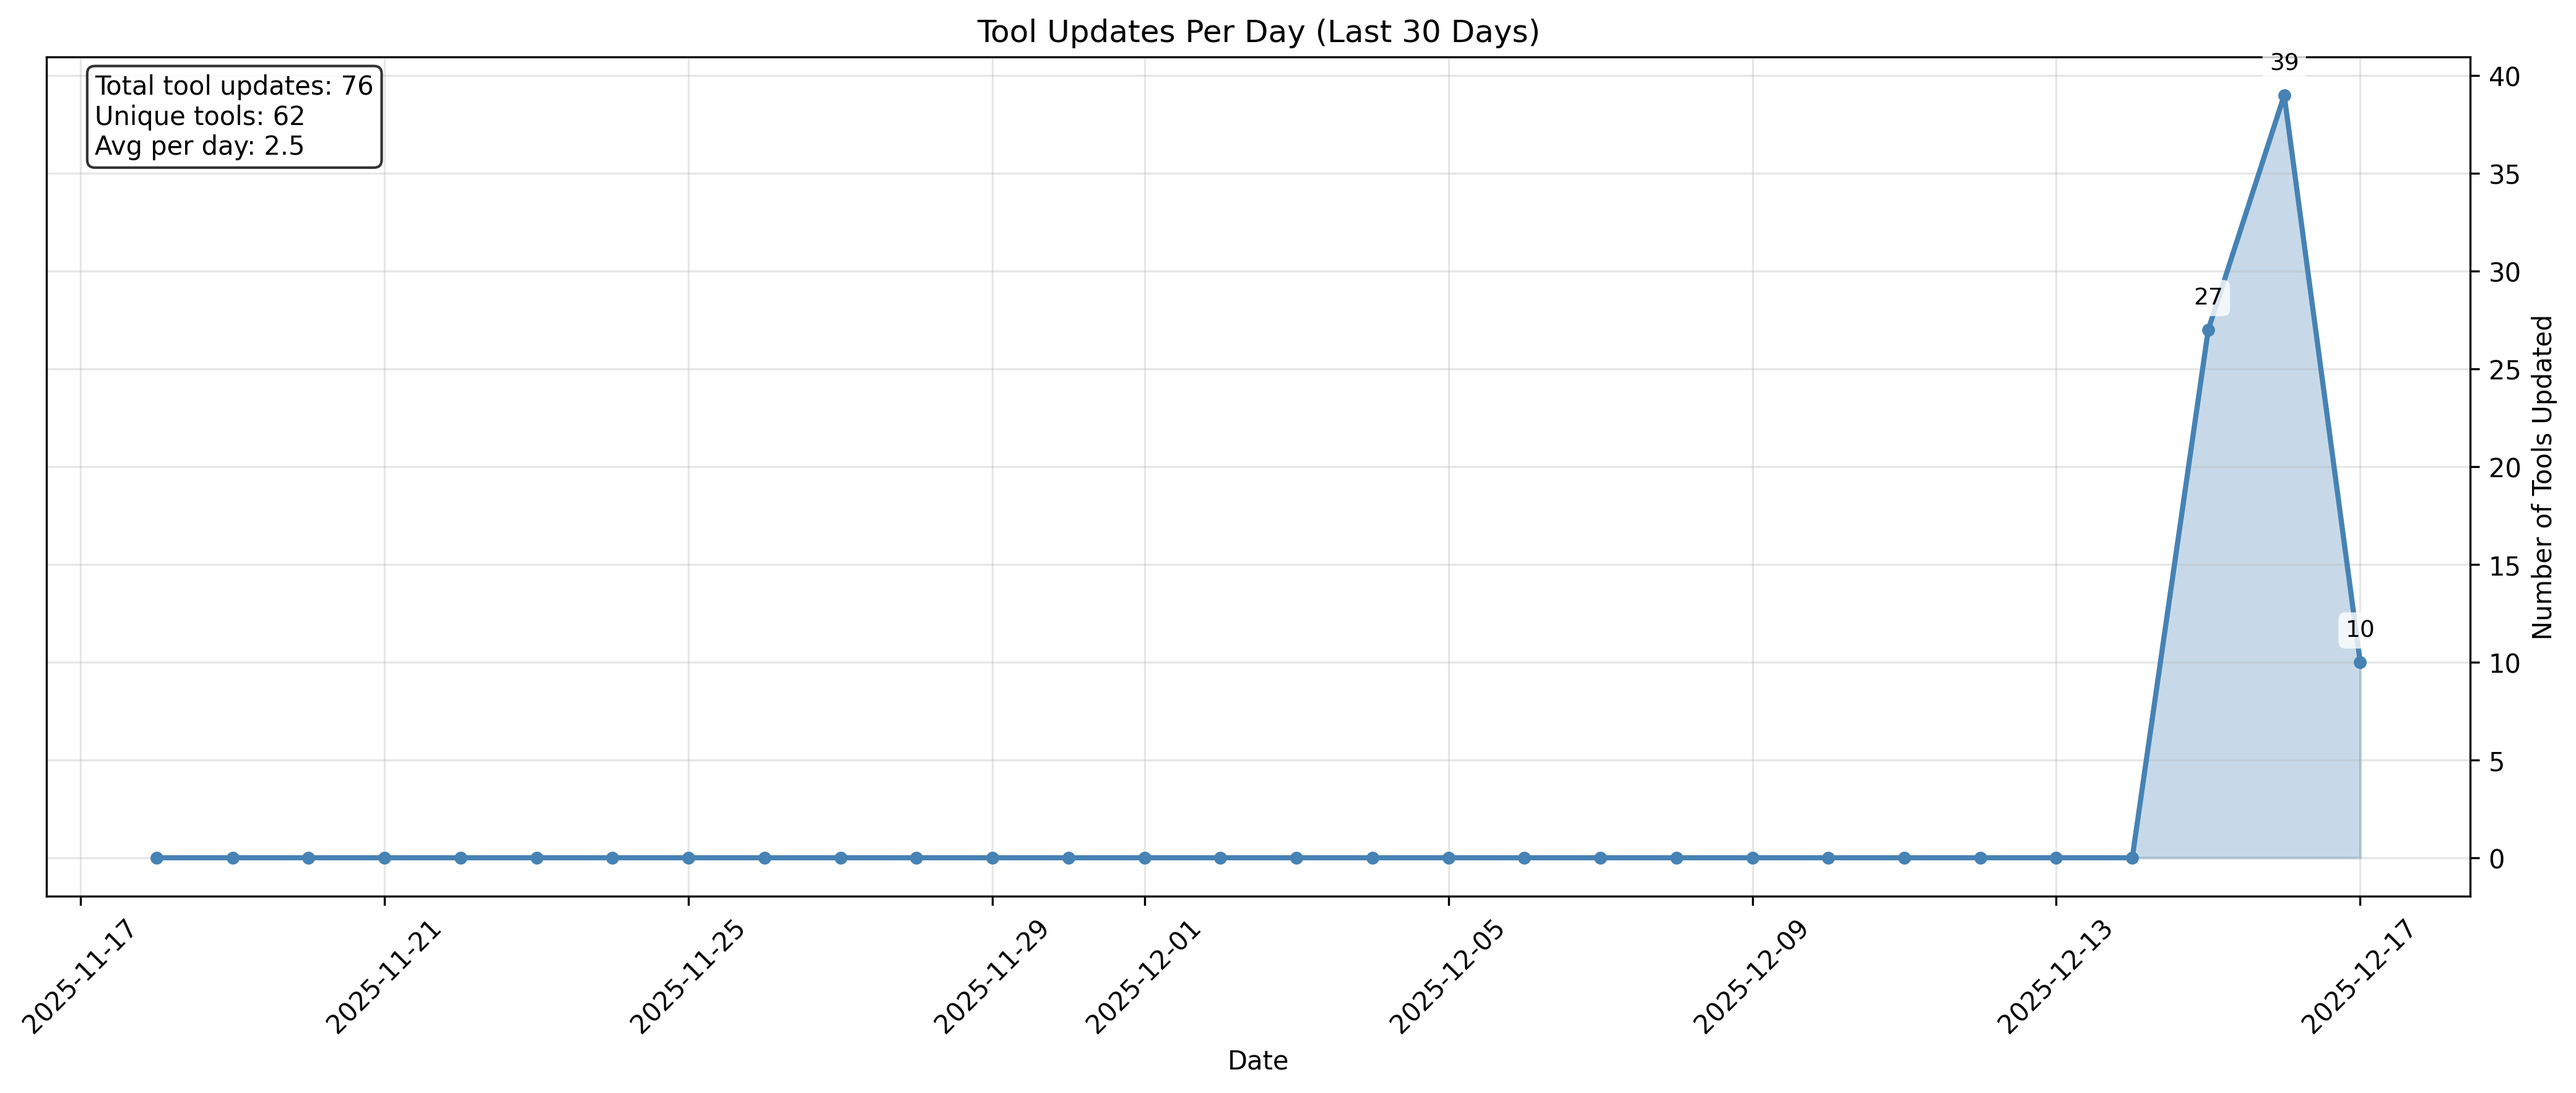
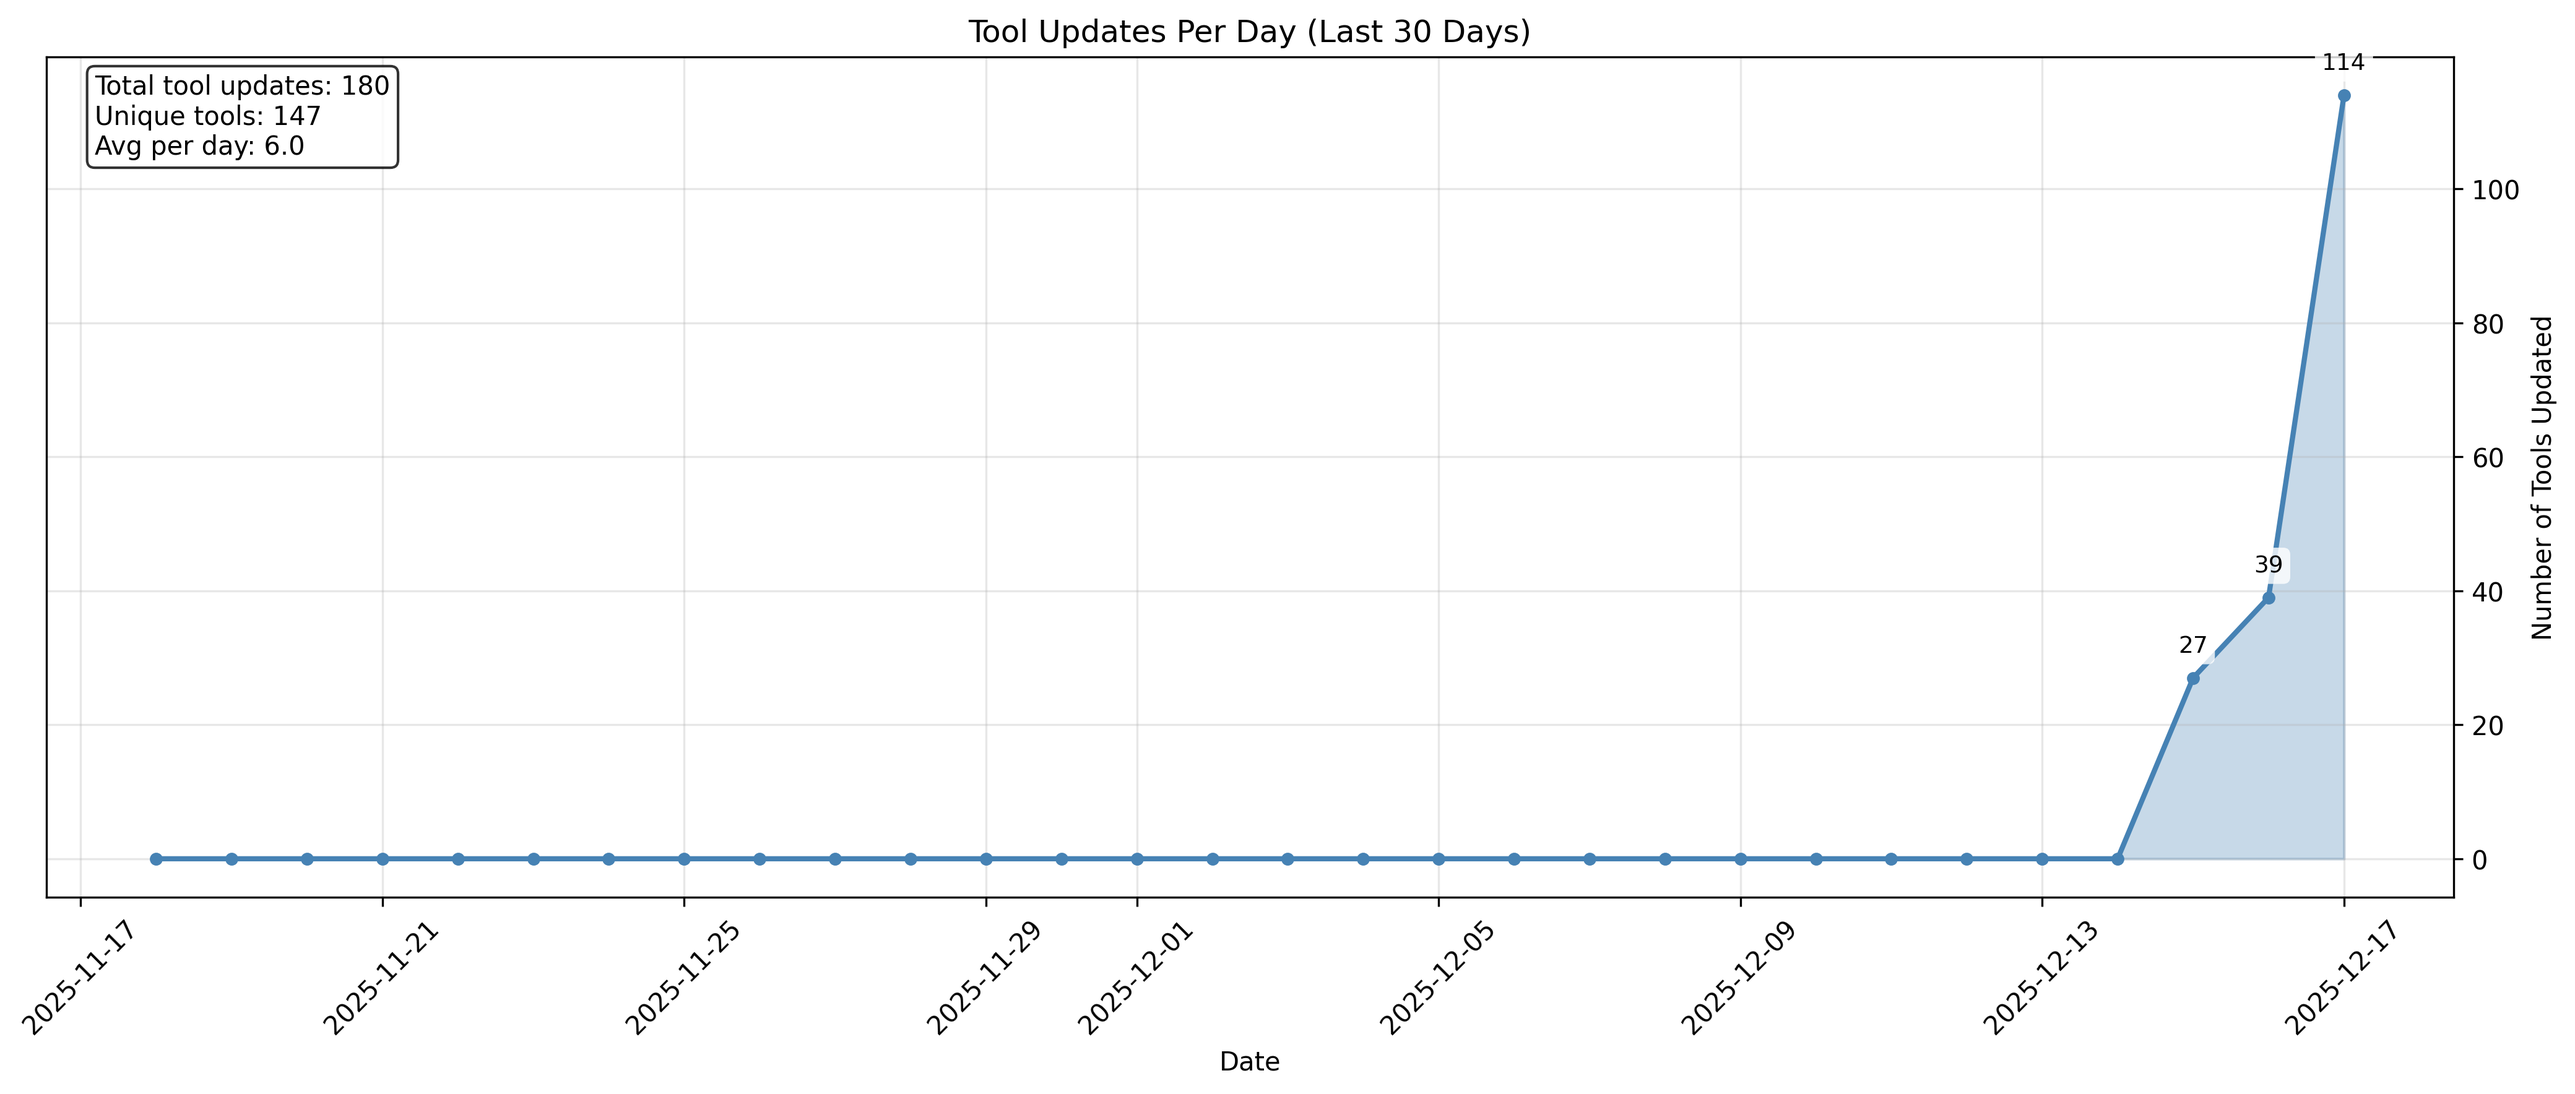
feat: add version updates chart to stats page
- Update render-charts.py to also output JSON data
- Add tools_updated.json to docs for GitHub Pages
- Show DAU and Version Updates charts side-by-side on stats page
- Display unique tools count and avg updates per day

🤖 Generated with [Claude Code](https://claude.com/claude-code)

diff --git a/scripts/render-charts.py b/scripts/render-charts.py
@@ -11,6 +11,7 @@ Analyzes git history for the docs/ directory, excluding aqua-registry and python
 """
 
 import os
+import json
 import git
 import matplotlib.pyplot as plt
 from datetime import datetime, timedelta
@@ -138,8 +139,20 @@ def create_chart(daily_updates, days_back, output_dir="charts"):
     plt.tight_layout()
     plt.savefig(f'{output_dir}/tools_updated.png', dpi=300, bbox_inches='tight')
     plt.close()
-    
+
+    # Also save JSON data for web consumption
+    json_data = {
+        "daily": [{"date": str(d), "count": c} for d, c in zip(dates, counts)],
+        "total_updates": total_tools,
+        "unique_tools": unique_tools,
+        "avg_per_day": round(avg_per_day, 1),
+        "days": days_back,
+    }
+    with open(f'{output_dir}/tools_updated.json', 'w') as f:
+        json.dump(json_data, f)
+
     print(f"Chart saved to {output_dir}/tools_updated.png")
+    print(f"JSON saved to {output_dir}/tools_updated.json")
     print(f"📊 Daily tool updates over {days_back} days (unique tools: {unique_tools})")
     return output_dir
 
